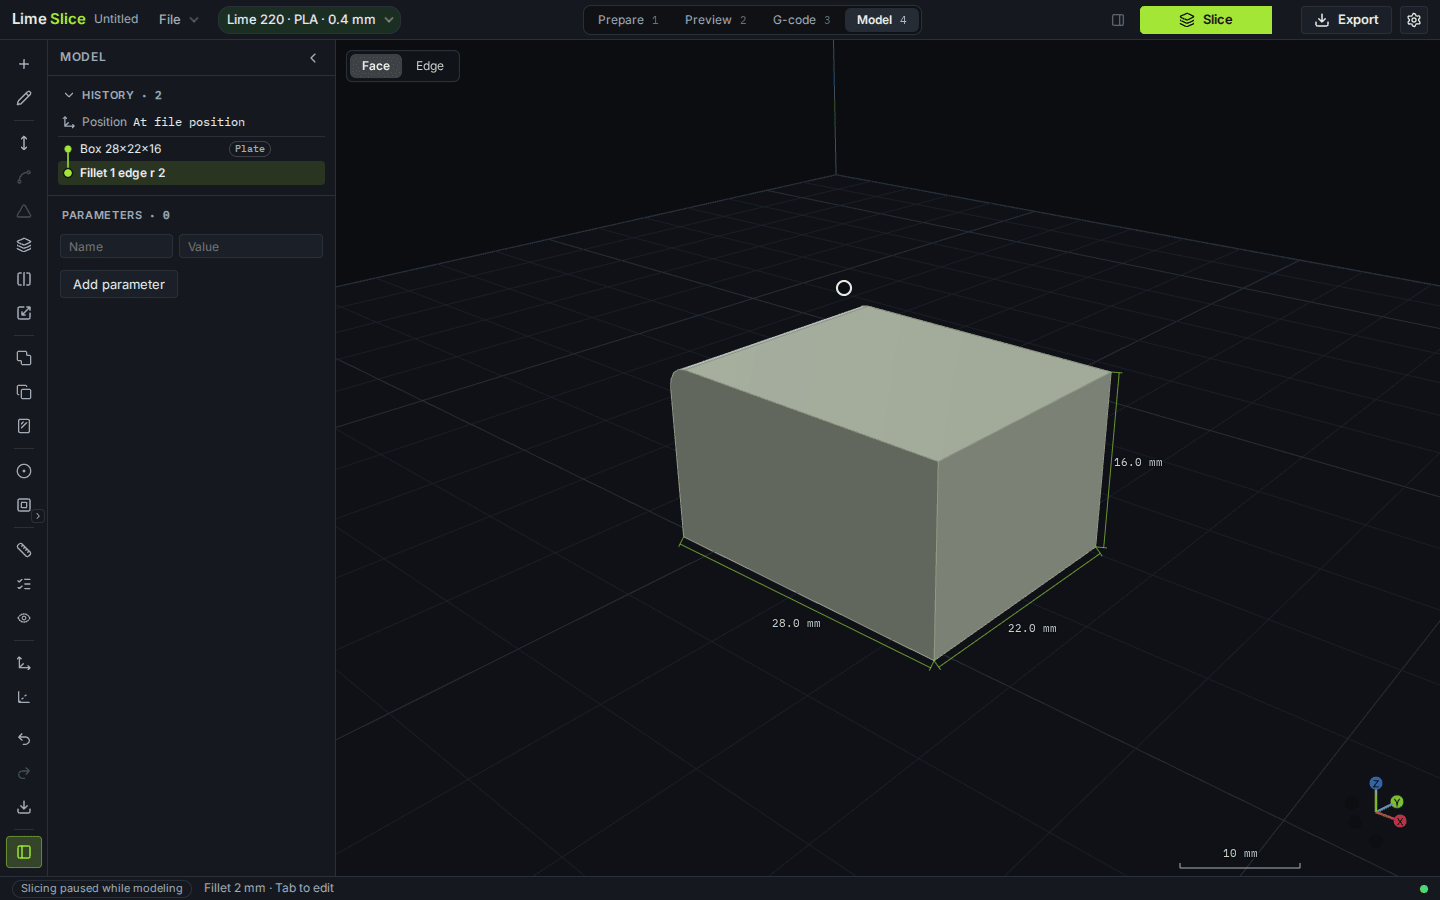
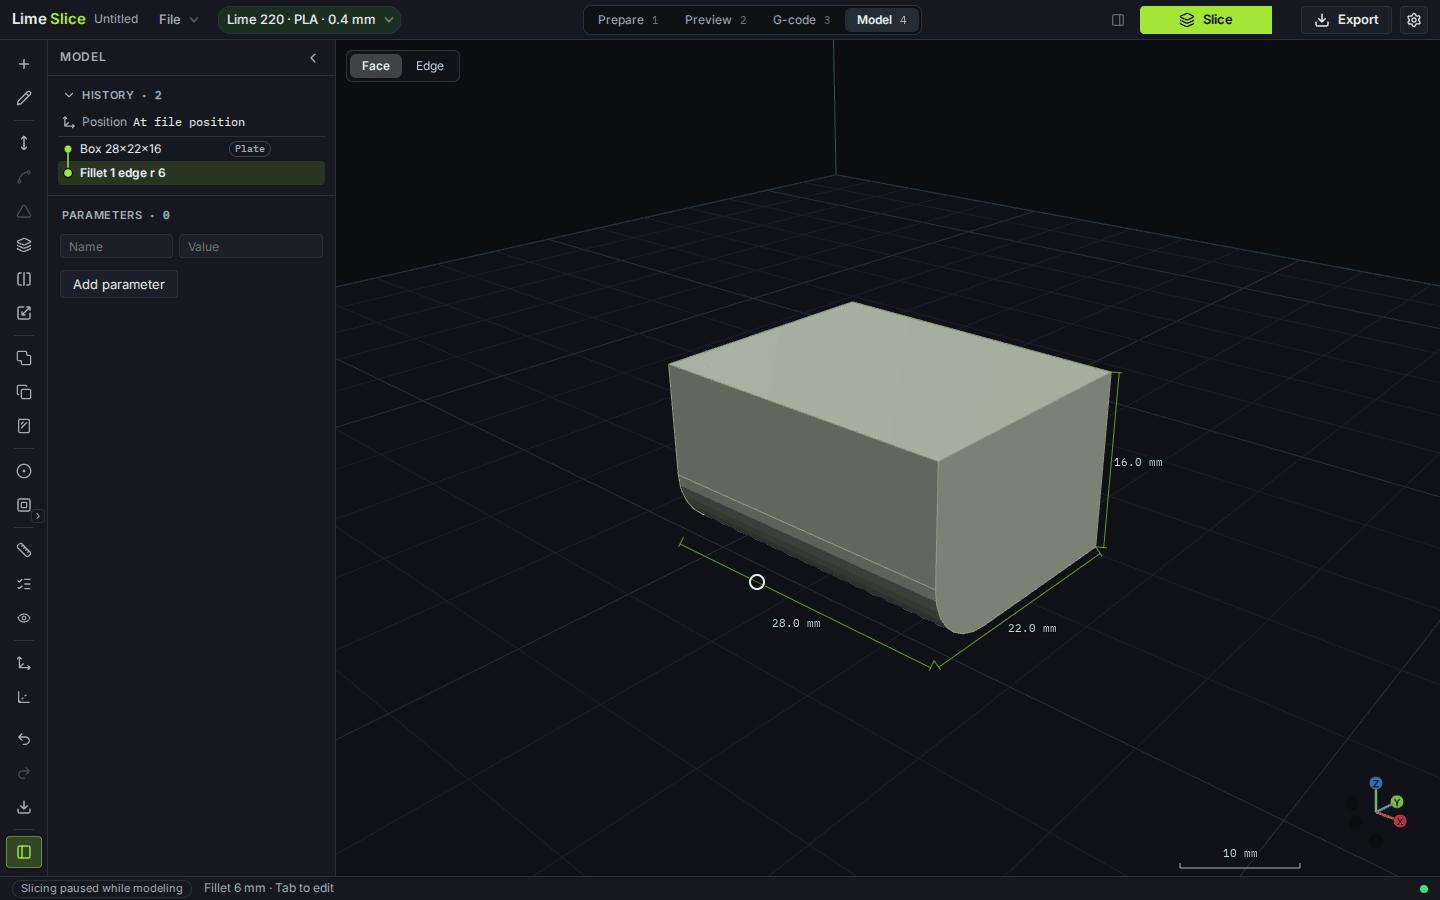
Retake the sketch still with the dimension editor closed.
The open driving-dimension field stretches across the viewport, so the shot now shows the committed 36 mm label and the constraint badges. The fillet clip shows the rounded edge, and the sweep clip waits for the path view.

Changed region(s): [[0.4688, 0.5289, 0.6875, 0.7467], [0.5312, 0.3111, 0.5938, 0.3733], [0.4688, 0.3733, 0.5312, 0.4044]]

diff --git a/README.md b/README.md
@@ -60,7 +60,7 @@ Hover an edge and type a radius. Enter fillets that edge. The same gesture with 
 
 ![The pull arrow on the top face, then a typed distance.](docs/screenshots/clip-push.gif)
 
-![A 2 mm fillet on a hovered edge.](docs/screenshots/model-fillet.png)
+![A 6 mm fillet on a hovered edge.](docs/screenshots/model-fillet.png)
 
 ![Hovering an edge and typing the fillet radius.](docs/screenshots/clip-fillet.gif)
 
